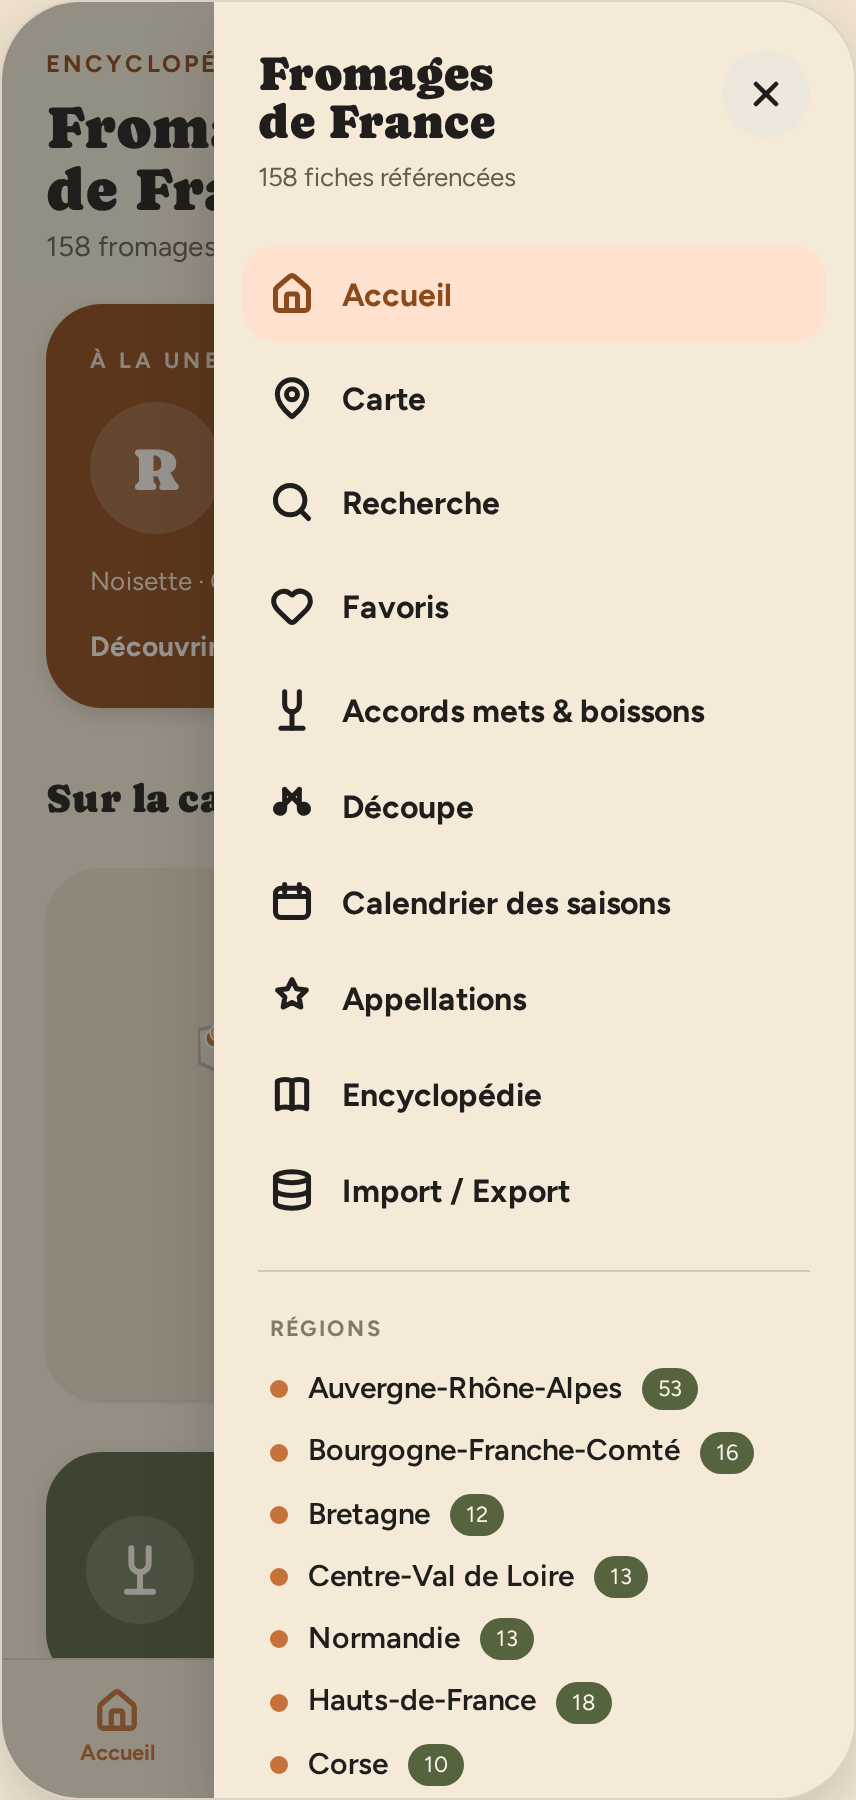
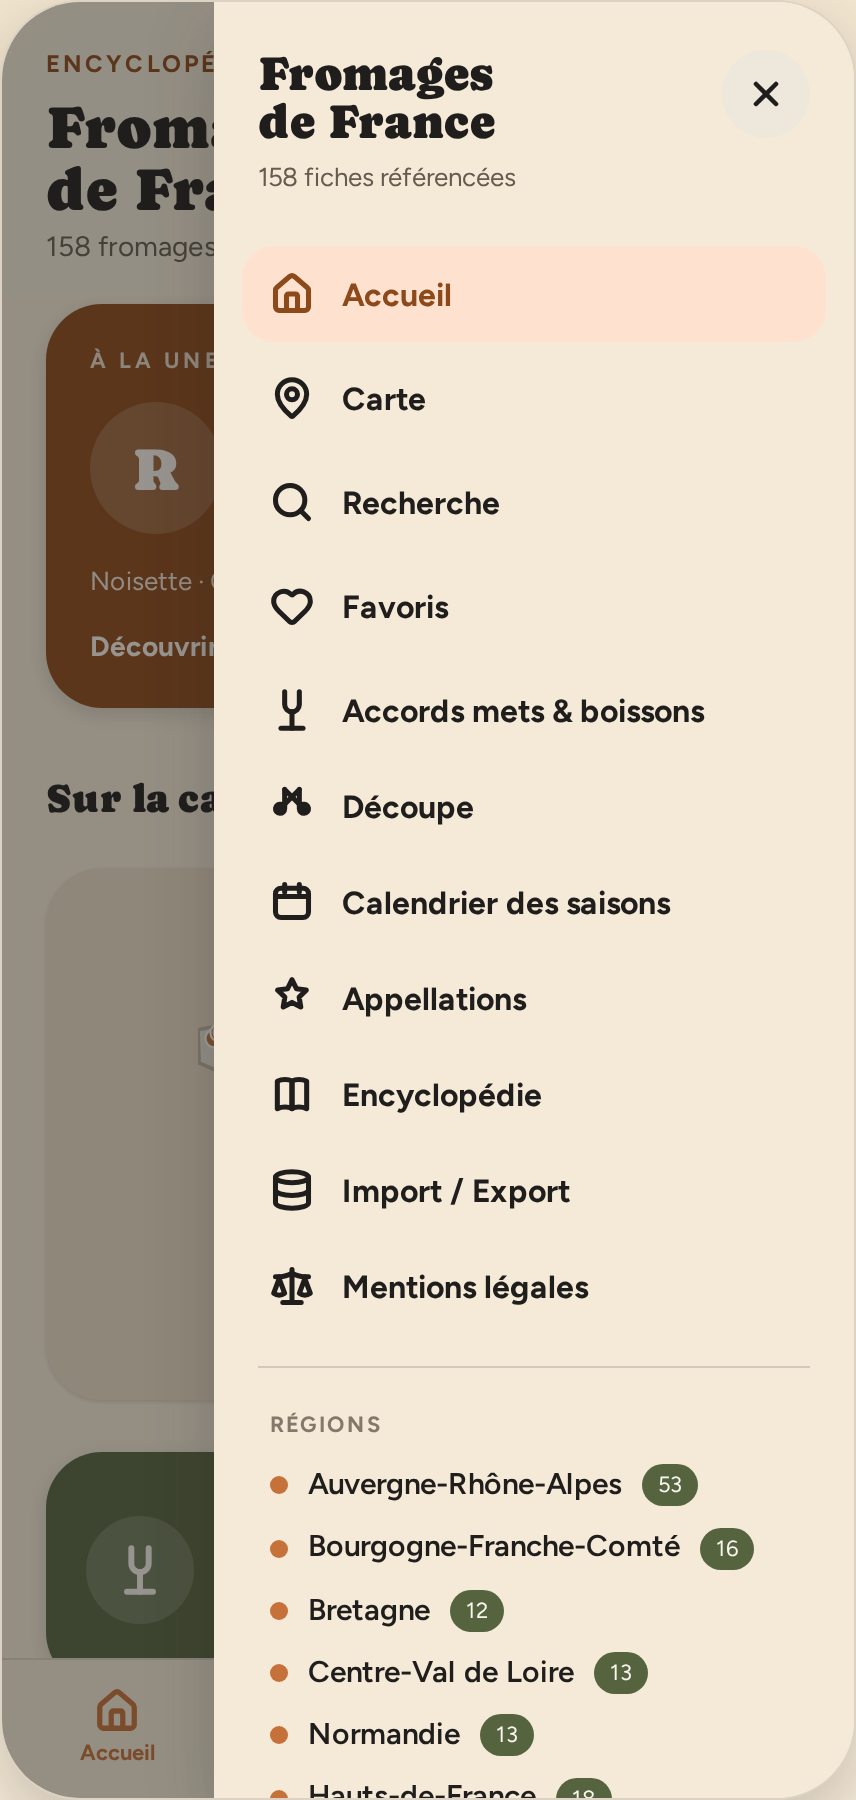
Lift the legal notice out from under the region list
The drawer entry sat after the nine regions, below the fold: reachable,
but only by scrolling, and each new region pushed it further down. It now
closes the navigation block, right after Import / Export — still last, as
legal entries conventionally are, but visible without scrolling.

Screenshots regenerated: menu.png picks up the moved entry, and the new
mentions-legales.png joins the README's collapsed gallery. The eleven
other captures came out byte-identical, which is its own small proof that
nothing else moved.

Claude-Session: https://claude.ai/code/session_019nR3gXKTC1ZdVcCwhcDegL

Changed region(s): [[0.3037, 0.6844, 0.8808, 1.0]]

diff --git a/src/components/screens/Drawer.tsx b/src/components/screens/Drawer.tsx
@@ -112,6 +112,17 @@ export function Drawer() {
             </span>
             Import / Export
           </button>
+          <button
+            type="button"
+            className={styles.navItem}
+            style={{ background: 'transparent', color: 'var(--color-text)' }}
+            onClick={actions.openLegal}
+          >
+            <span className={styles.navItemIcon}>
+              <Scale size={22} strokeWidth={2.75} />
+            </span>
+            Mentions légales
+          </button>
 
           <div className={styles.divider} />
           <div className={styles.regionsSection}>
@@ -125,18 +136,6 @@ export function Drawer() {
             ))}
             {regions.length <= 1 && <div className={styles.regionsHint}>Autres régions à venir…</div>}
           </div>
-          <div className={styles.divider} />
-          <button
-            type="button"
-            className={styles.navItem}
-            style={{ background: 'transparent', color: 'var(--color-text)' }}
-            onClick={actions.openLegal}
-          >
-            <span className={styles.navItemIcon}>
-              <Scale size={22} strokeWidth={2.75} />
-            </span>
-            Mentions légales
-          </button>
           <div className={styles.divider} />
           <div className={styles.footer}>
             Encyclopédie du terroir fromager français. Données de démonstration — lot&nbsp;1.

diff --git a/README.md b/README.md
@@ -32,7 +32,7 @@ Réimplémentation en React + Vite + TypeScript d'un handoff de design haute-fid
 | <img src="docs/screenshots/recherche.png" alt="Recherche plein texte" width="240"> | <img src="docs/screenshots/favoris.png" alt="Listes de favoris" width="240"> | <img src="docs/screenshots/menu.png" alt="Menu latéral" width="240"> |
 
 <details>
-<summary><b>Voir les six autres écrans</b> — accords, découpe, calendrier, appellations, encyclopédie, import/export</summary>
+<summary><b>Voir les sept autres écrans</b> — accords, découpe, calendrier, appellations, encyclopédie, import/export, mentions légales</summary>
 
 <br>
 
@@ -41,6 +41,8 @@ Réimplémentation en React + Vite + TypeScript d'un handoff de design haute-fid
 | <img src="docs/screenshots/accords.png" alt="Accords mets et boissons" width="240"> | <img src="docs/screenshots/decoupe.png" alt="Guide de découpe" width="240"> | <img src="docs/screenshots/calendrier.png" alt="Calendrier des saisons" width="240"> |
 |                       **🏅 Appellations**                       |                     **📖 Encyclopédie**                     |                      **💾 Import / Export**                      |
 | <img src="docs/screenshots/appellations.png" alt="Appellations" width="240"> | <img src="docs/screenshots/encyclopedie.png" alt="Encyclopédie" width="240"> | <img src="docs/screenshots/import-export.png" alt="Import / Export de la base" width="240"> |
+|                     **⚖ Mentions légales**                     |                                                             |                                                                  |
+| <img src="docs/screenshots/mentions-legales.png" alt="Mentions légales" width="240"> |  |  |
 
 </details>
 
